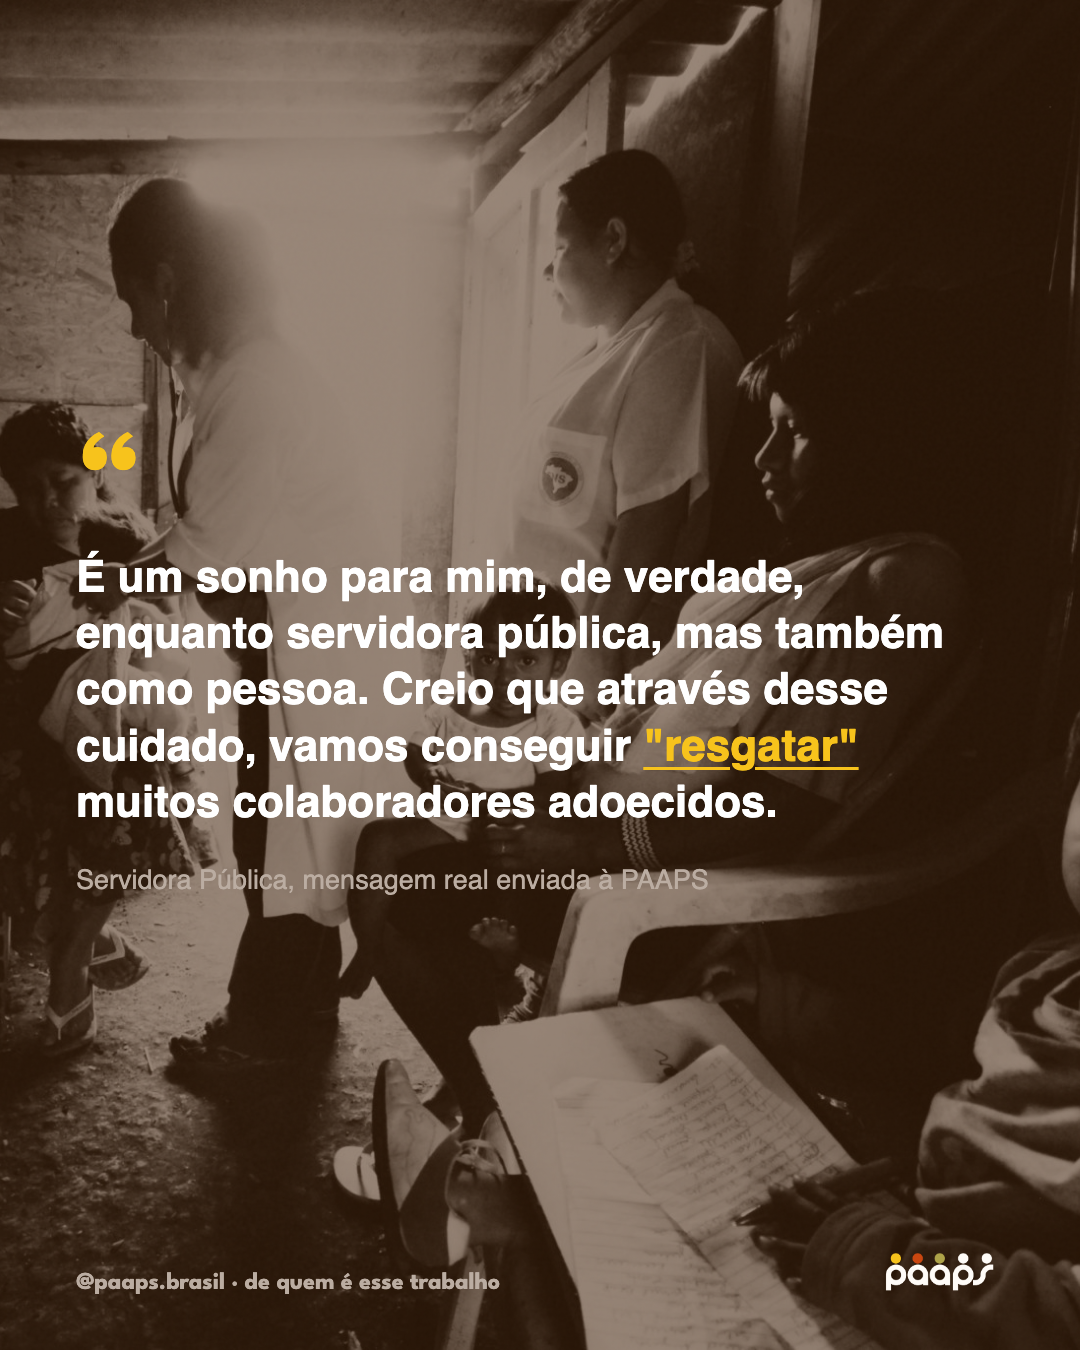
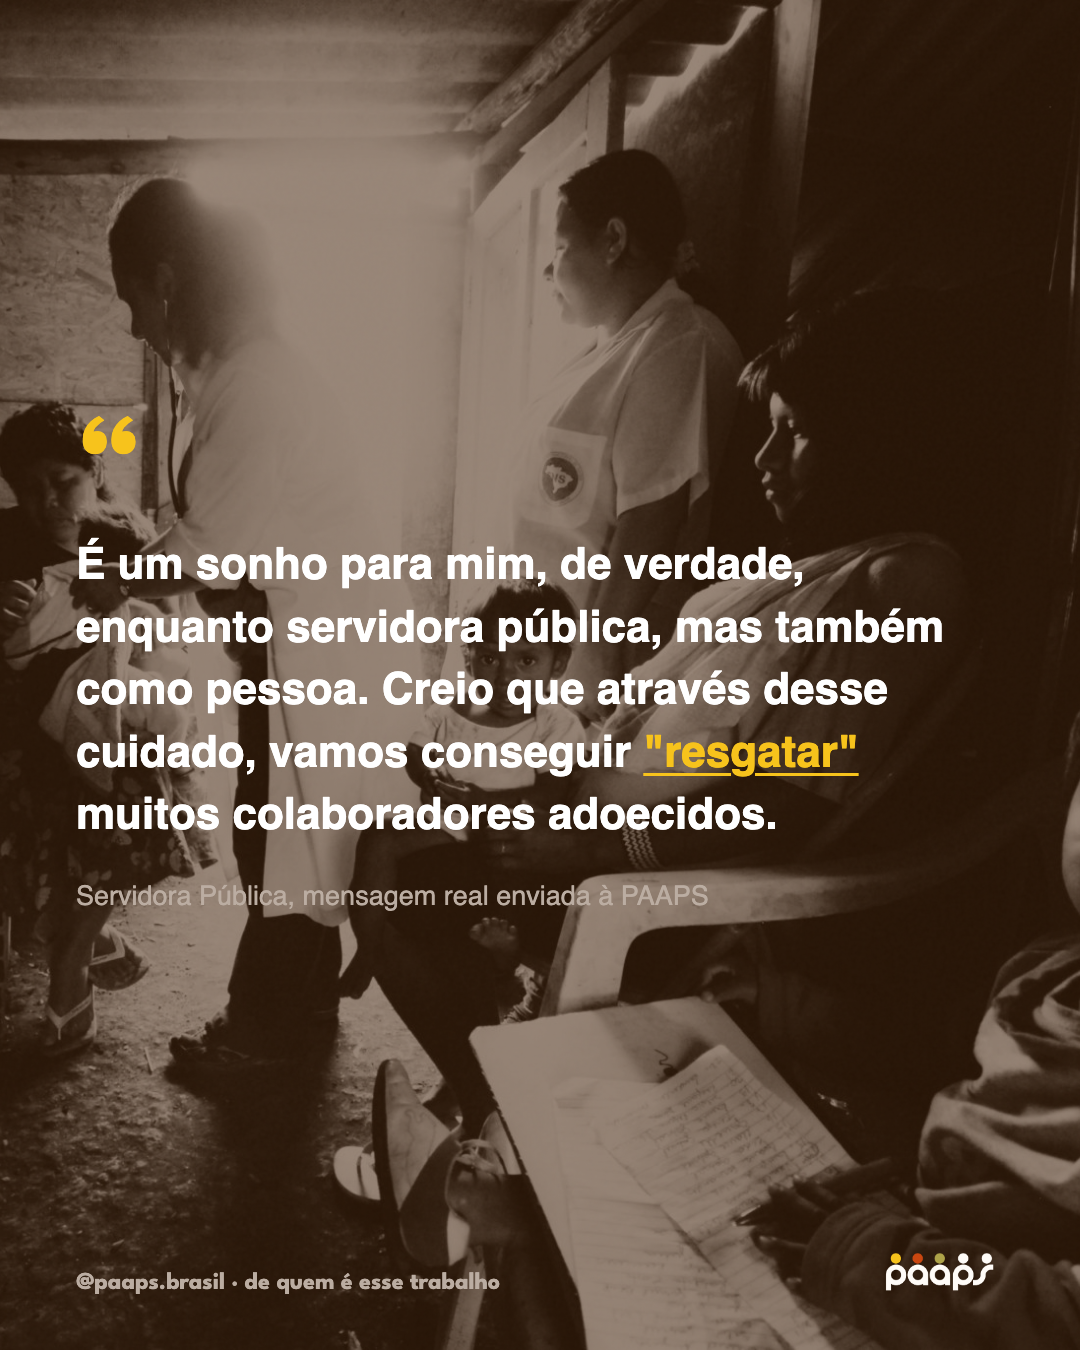
auto: conteudo, sessoes - 2026-08-30 19:39

Changed region(s): [[0.0611, 0.5289, 0.7944, 0.6844], [0.0611, 0.4044, 0.8861, 0.4978], [0.0611, 0.3111, 0.1222, 0.3733]]

diff --git a/conteudo/PARA-APROVAR-mulheres-no-cuidado/montagem-30-08/index.html b/conteudo/PARA-APROVAR-mulheres-no-cuidado/montagem-30-08/index.html
@@ -52,6 +52,7 @@
   #s1 .foto{top:0;height:1350px;object-position:22% 82%;filter:saturate(1.05);}
   #s1 .conteudo{justify-content:flex-end;padding-bottom:190px;gap:24px;}
   #s1 .sub-caps{margin-bottom:6px;}
+  #s1 .veu-baixo{height:760px;background:linear-gradient(to top, rgba(68,35,9,0.98) 0%, rgba(68,35,9,0.9) 55%, rgba(68,35,9,0) 100%);}
 
   /* SLIDE 2 — AFIRMAÇÃO */
   #s2 .foto{top:0;height:1350px;object-position:70% 60%;}
@@ -70,7 +71,7 @@
   #s4 .foto{top:0;height:1350px;object-position:75% 20%;}
   #s4 .conteudo{justify-content:center;gap:34px;}
   #s4 .aspa{font-family:var(--fonte-label);font-size:120px;color:var(--cor-amarelo);line-height:0.5;font-weight:800;}
-  #s4 .citacao{font-size:44px;font-weight:700;line-height:1.28;}
+  #s4 .citacao{font-size:44px;font-weight:700;line-height:1.42;}
   #s4 .atribuicao{font-size:27px;color:var(--cor-bege-rosa);font-weight:400;}
 
   /* SLIDE 5 — RESPIRO */
@@ -94,12 +95,13 @@
   #s7 .rodape{font-size:24px;color:var(--cor-bege-rosa);max-width:880px;margin-top:14px;}
 
   /* SLIDE 8 — PERGUNTA + CTA institucional */
-  #s8 .foto{top:0;height:1350px;object-position:60% 30%;}
-  #s8 .conteudo{justify-content:flex-end;padding-bottom:190px;gap:24px;}
-  #s8 .pergunta{font-size:58px;font-weight:700;line-height:1.2;}
-  #s8 .cta{position:absolute;left:0;right:0;bottom:0;height:230px;background:var(--cor-marrom);
-           z-index:3;display:flex;align-items:center;justify-content:space-between;padding:0 76px;}
-  #s8 .cta-texto{font-family:var(--fonte-label);font-weight:700;font-size:30px;line-height:1.25;max-width:640px;}
+  #s8 .foto{top:0;height:1350px;object-position:75% 15%;}
+  #s8 .conteudo{justify-content:flex-end;padding-bottom:70px;gap:18px;}
+  #s8 .pergunta{font-size:54px;font-weight:700;line-height:1.28;}
+  #s8 .pergunta .glossa{display:block;font-size:26px;font-weight:400;color:rgba(255,255,255,0.82);margin-top:12px;}
+  #s8 .cta{position:absolute;left:0;right:0;bottom:0;height:210px;background:var(--cor-marrom);
+           z-index:3;display:flex;flex-direction:column;justify-content:center;gap:14px;padding:0 76px;}
+  #s8 .cta-texto{font-family:var(--fonte-label);font-weight:700;font-size:30px;line-height:1.25;max-width:800px;}
   #s8 .cta-link{font-family:var(--fonte-label);font-weight:800;font-size:26px;color:var(--cor-amarelo);}
 </style>
 </head>
@@ -193,12 +195,11 @@
 
 <!-- SLIDE 8 : PERGUNTA + CTA -->
 <section class="slide" id="s8">
-  <img class="foto" src="fotos/slide8.jpg" style="height:1120px;">
-  <div class="veu" style="top:0;height:520px;background:linear-gradient(to bottom, rgba(68,35,9,0.85) 0%, rgba(68,35,9,0) 100%);"></div>
-  <div class="veu" style="top:780px;height:340px;background:linear-gradient(to top, rgba(68,35,9,0.97) 0%, rgba(68,35,9,0) 100%);"></div>
-  <div class="conteudo" style="height:1120px;justify-content:flex-end;padding-bottom:70px;gap:20px;">
+  <img class="foto" src="fotos/slide8.jpg" style="height:1140px;">
+  <div class="veu" style="top:0;height:1140px;background:linear-gradient(to top, rgba(68,35,9,0.95) 0%, rgba(68,35,9,0.15) 55%, rgba(68,35,9,0.35) 100%);"></div>
+  <div class="conteudo" style="height:1140px;">
     <div class="sub-caps">NA SUA REDE, QUEM CUIDA DE QUEM CUIDA?</div>
-    <div class="pergunta">O <span class="amarelo amarelo-sub">presenteísmo</span>, na sua equipe, ainda não tem indicador? <span style="font-size:30px;font-weight:400;color:rgba(255,255,255,0.85);">(estar lá, sem conseguir de fato trabalhar)</span></div>
+    <div class="pergunta">O <span class="amarelo amarelo-sub">presenteísmo</span> na sua equipe ainda não tem indicador?<span class="glossa">(estar lá, sem conseguir de fato trabalhar)</span></div>
   </div>
   <div class="cta">
     <div class="cta-texto">A PAAPS É A REDE DE PSICÓLOGOS DE QUEM CUIDA</div>

diff --git a/sessoes/sessao-2026-08-30.md b/sessoes/sessao-2026-08-30.md
@@ -105,3 +105,12 @@ ainda têm poucos municípios tocados).
 ?? conteudo/PARA-APROVAR-mulheres-no-cuidado/montagem-30-08/
 ```
 
+
+## 19:39
+```
+ M conteudo/PARA-APROVAR-mulheres-no-cuidado/montagem-30-08/export/slide-01.png
+ M conteudo/PARA-APROVAR-mulheres-no-cuidado/montagem-30-08/export/slide-04.png
+ M conteudo/PARA-APROVAR-mulheres-no-cuidado/montagem-30-08/index.html
+?? conteudo/PARA-APROVAR-mulheres-no-cuidado/montagem-30-08/export/slide-08.png
+```
+
